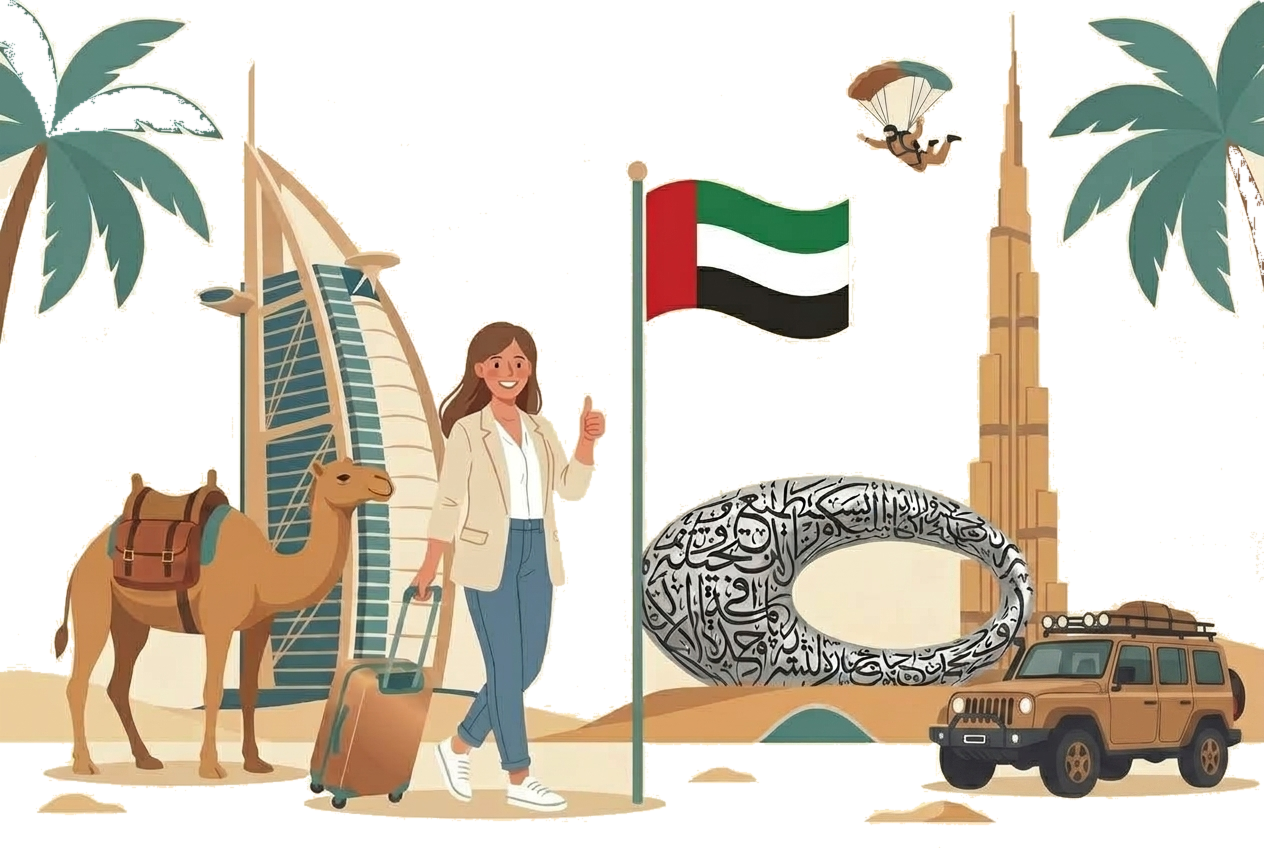
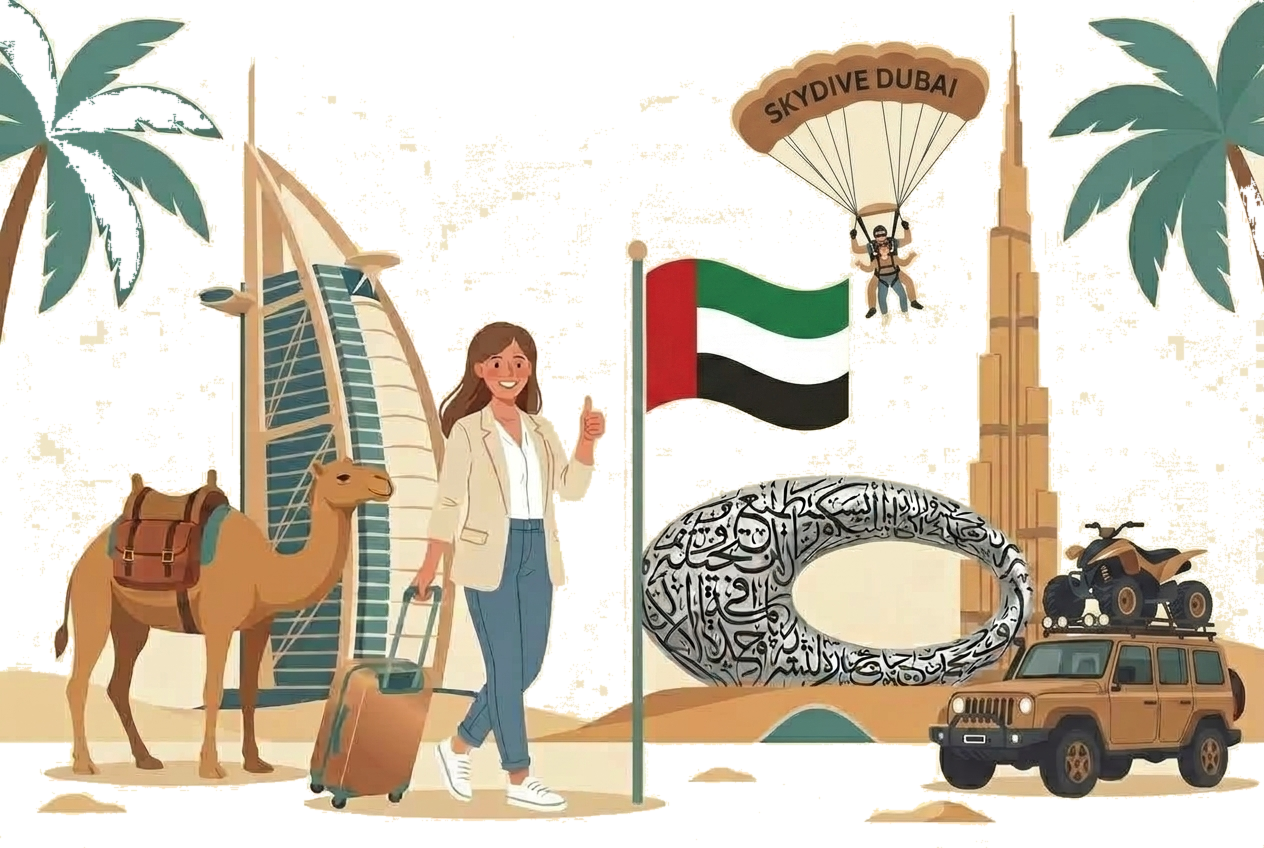
## İlk sahnedeki üç düzeltme tamam
- **Quad bike** jeepin tavan sepetine yerleştirildi (iki tekerlek de görünür, kadraj içinde).
- **BAE bayrağı** yukarı-sola alındı; Museum of the Future halkasıyla arasında net boşluk var, artık temas etmiyor.
- **Paraşüt tandem** yapıldı (önde yolcu, arkada eğitmen) ve kanopiye okunaklı **SKYDIVE DUBAI** yazıldı.
- Masaüstünde doğruladım: görsel tamamen kadrajın içinde, kırpılma yok; kapak karesi ve anlatım kontrolleri çalışıyor. Önceki sürüm `intro.refnoquad.jpg` olarak yedekte.

- Next Action Items:
  - **Meta Bağlantısı**: Meta anahtarlarını girip WhatsApp botunu canlıya alalım, ilk gerçek mesajı test edelim
  - **Diğer Sahneler**: Kalan 6 çizimi de bu yeni üsluba (aynı renk ve çizgi diline) geçirelim
  - **Gerçek IBAN'lar**: Banka kartlarındaki yer tutucu IBAN'ları gerçek hesap bilgilerinizle değiştirelim
  - **Kapak Yazısı**: Kapak karesine "2 belgeyle Dubai vizesi · 1,5 dakikada anlatalım" başlığı koyup tıklamayı artıralım

Potansiyel geliştirme: Skydive, quad safari ve deve turu artık çizimde de var — anlatımın sonuna "vizenle birlikte bu turları da ekle" kartı koyup tek tıkla sepete eklenmesini sağlayabiliriz. İster misiniz?

diff --git a/memory/CHANGELOG.md b/memory/CHANGELOG.md
@@ -644,3 +644,6 @@ Kullanıcı notları doğrultusunda anlatım baştan üretildi (`scripts/generat
   tepeleri. İkinci turda jeep kadraja tam sığdırıldı (ilk üretimde sağ kenardan kesiliyordu).
   Yedekler: `intro.refclipped.jpg` (jeep kesik ilk deneme), `intro.prevdesert.{jpg,png}`,
   `intro.quadjetski.{jpg,png}`, `intro.palmoverlap.{jpg,png}`.
+- intro sahnesi son rötuşlar: jeepin tavan sepetine **quad bike** eklendi, BAE bayrağı Museum
+  of the Future halkasına **temas etmeyecek** şekilde yukarı-sola alındı, paraşütçü **tandem
+  (2 kişi)** yapıldı ve kanopiye **SKYDIVE DUBAI** yazıldı. Yedek: `intro.refnoquad.jpg`.
